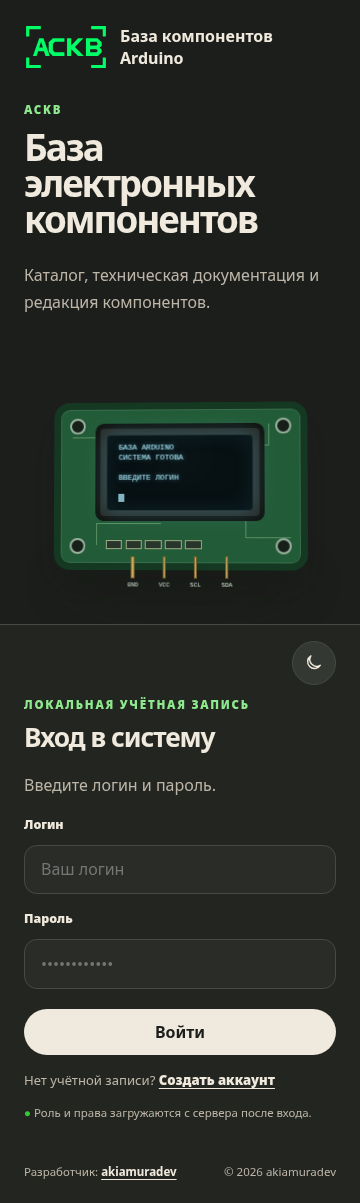
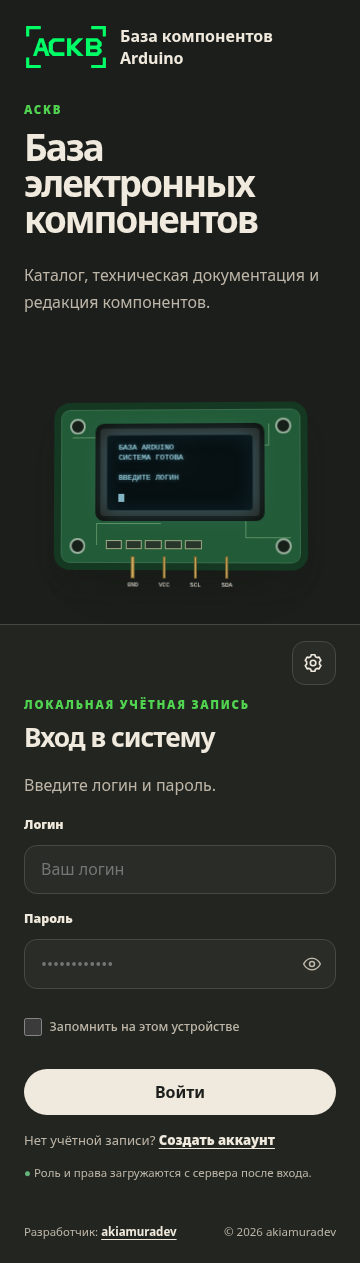
Refresh current capabilities, deployment docs and deterministic screenshots

diff --git a/frontend/e2e/product-ui.spec.ts b/frontend/e2e/product-ui.spec.ts
@@ -562,19 +562,30 @@ test("editor navigation remains usable at 320px and hides administrator tools", 
 
 test("captures approved responsive theme views", async ({ page }) => {
   test.skip(process.env.ACKB_UPDATE_SCREENSHOTS !== "1", "visual artifacts are updated explicitly");
+  await page.emulateMedia({ reducedMotion: "reduce" });
+  const capture = async (path: string) => {
+    // Load off-screen institution logos before a full-page capture, without production data.
+    await page.locator(".app-footer, .login-footer").scrollIntoViewIfNeeded();
+    await page.evaluate(() => document.fonts.ready);
+    for (const image of await page.locator("img").all()) {
+      await expect.poll(() => image.evaluate((element: HTMLImageElement) => element.naturalWidth)).toBeGreaterThan(0);
+    }
+    await page.evaluate(() => { window.scrollTo(0, 0); });
+    await page.screenshot({ fullPage: true, animations: "disabled", path });
+  };
   const items = Array.from({ length: 12 }, (_, index) => ({ ...component, id: String(index), slug: `part-${String(index)}` }));
   await mockCatalog(page, editor, items);
   await page.setViewportSize({ width: 1920, height: 1080 });
   await page.goto("/");
   await selectTheme(page, "Светлое");
   await expect(page.locator("html")).toHaveAttribute("data-theme", "light");
-  await page.screenshot({ fullPage: true, path: "../docs/screenshots/frontend-light-desktop.png" });
+  await capture("../docs/screenshots/frontend-light-desktop.png");
   await selectTheme(page, "Тёмное");
   await expect(page.locator("html")).toHaveAttribute("data-theme", "dark");
   await page.reload();
   await expect(page.locator("html")).toHaveAttribute("data-theme", "dark");
   await expect(page.getByRole("heading", { name: "Каталог компонентов" })).toBeVisible();
-  await page.screenshot({ fullPage: true, path: "../docs/screenshots/frontend-dark-desktop.png" });
+  await capture("../docs/screenshots/frontend-dark-desktop.png");
 
   await page.unrouteAll({ behavior: "wait" });
   await mockLoggedOut(page);
@@ -582,11 +593,11 @@ test("captures approved responsive theme views", async ({ page }) => {
   await page.goto("/login");
   await selectTheme(page, "Светлое");
   await expect(page.locator("html")).toHaveAttribute("data-theme", "light");
-  await page.screenshot({ fullPage: true, path: "../docs/screenshots/frontend-light-mobile.png" });
+  await capture("../docs/screenshots/frontend-light-mobile.png");
   await selectTheme(page, "Тёмное");
   await expect(page.locator("html")).toHaveAttribute("data-theme", "dark");
   await page.reload();
   await expect(page.locator("html")).toHaveAttribute("data-theme", "dark");
   await expect(page.getByRole("heading", { name: "Вход в систему" })).toBeVisible();
-  await page.screenshot({ fullPage: true, path: "../docs/screenshots/frontend-dark-mobile.png" });
+  await capture("../docs/screenshots/frontend-dark-mobile.png");
 });

diff --git a/tests/test_documentation.py b/tests/test_documentation.py
@@ -3,6 +3,7 @@
 from __future__ import annotations
 
 import re
+import tomllib
 
 from scripts.docs_contract import (
     DOCS,
@@ -127,6 +128,42 @@ def test_readme_badges_describe_current_license_stack_and_test_availability() ->
             "Docker Compose",
         ):
             assert f"![{technology}]" in content
+
+
+def test_readmes_share_current_commands_screenshots_and_release_contract() -> None:
+    english = (ROOT / "README.md").read_text(encoding="utf-8")
+    russian = (ROOT / "README.ru.md").read_text(encoding="utf-8")
+    version = tomllib.loads((ROOT / "pyproject.toml").read_text())["project"]["version"]
+    assert "## Current capabilities" in english
+    assert "## Возможности ACKB" in russian
+    assert re.findall(r"```bash\n(.*?)```", english, re.DOTALL) == re.findall(
+        r"```bash\n(.*?)```", russian, re.DOTALL
+    )
+    screenshots = {
+        f"docs/screenshots/frontend-{theme}-{viewport}.png"
+        for theme in ("light", "dark")
+        for viewport in ("desktop", "mobile")
+    }
+    for content in (english, russian):
+        assert f"**{version}**" in content
+        assert "v1.0.0" not in content
+        assert not re.search(r"compose[^\n]*up[^\n]*--build", content)
+        assert set(re.findall(r"docs/screenshots/[^)]+\.png", content)) == screenshots
+        for token in (
+            "scripts/build_images.py",
+            "up --no-build --detach",
+            "ACKB_UPDATE_SCREENSHOTS=1",
+            "edit tokens",
+            "RGB/HEX",
+            "ZIP/XLSX",
+            "disabled/shadow",
+            "Argon2id",
+            "docs/LEGACY_IMPORTER.md",
+            "full commit SHA",
+            "/build-info.json",
+            "production smoke",
+        ):
+            assert token in content
 
 
 def test_media_limits_are_unambiguous() -> None:

diff --git a/tests/test_operations_documentation.py b/tests/test_operations_documentation.py
@@ -1,4 +1,4 @@
-"""Static contracts for the ACKB 1.0.0 operator guide."""
+"""Static contracts for the current ACKB operator guide."""
 
 from __future__ import annotations
 
@@ -53,10 +53,11 @@ def test_operator_commands_match_repository_interfaces() -> None:
         "ackb_restore_incident",
         "ackb-reconcile-jobs",
         "git checkout --detach",
-        "20260721_16",
+        "<verified-pre-upgrade-alembic-revision>",
     )
     for token in required_tokens:
         assert token in guide
+    assert "alembic downgrade 20260721_16" not in guide
     for service in (
         "postgres",
         "redis",

diff --git a/README.md b/README.md
@@ -40,19 +40,38 @@ A clean installation contains categories and approved source definitions, but no
 automatically published cards. Imported material always starts as a draft; it becomes visible to
 students only after review, approval, and explicit publication.
 
-## Highlights in v1.0.0
+## Current capabilities
 
-- responsive Russian-language React interface with light, dark, and system themes;
-- catalogue search, category and difficulty filters, component pages, and multiple-image galleries;
-- server-enforced roles for students, teachers, temporary editors, and administrators;
-- student-only public registration plus administrator-controlled password reset and admin creation;
-- draft, review, approval, publication, hide, archive, and immutable revision history;
-- teacher correction proposals that never overwrite published content directly;
-- versioned Seeed Studio Wiki and KiCad Symbols adapters with preserved provenance and license snapshots; all sources are currently inactive for new imports;
-- exact and fuzzy duplicate detection with administrator-only merge decisions;
-- private MinIO media, validated image/video processing, and durable Redis/Dramatiq jobs;
-- audit events, Argon2id passwords, opaque sessions, CSRF protection, and throttling;
-- reproducible Docker Compose deployment, Alembic migrations, backup, restore, and upgrade checks.
+- A Russian-language, full-width desktop workspace with responsive mobile layout,
+  catalogue search, category/difficulty filters, component details and multiple-image galleries.
+- Controlled draft → review → approval → explicit publication, immutable published snapshots,
+  revision history, hide/archive actions and separate teacher correction proposals.
+- A synchronized card editor with optimistic edit tokens and conflict handling; structured
+  validation diagnostics, field navigation and explicit conversion between compatible
+  specification units. The authenticated filling guide opens in a separate tab without
+  replacing the draft.
+- Server-enforced `student`, `teacher`, temporary `editor` and `administrator` roles;
+  student-only registration, administrator-controlled account/password management, password
+  visibility controls and optional remembered login sessions.
+- Light/dark/system themes, custom RGB/HEX accents and saved browser-local accent presets.
+  Brand colors remain independent of UI accents.
+- A public `/license` page with the complete GNU GPL text and neutral institutional affiliation
+  blocks linking to МПК ЛГПУ and ЛГПУ.
+- A legacy ZIP/XLSX importer with private source uploads, analysis before application,
+  administrator review, explicit plan confirmation and draft-only application. Source rights
+  must be verified before publication; see the [legacy importer guide](docs/LEGACY_IMPORTER.md).
+- Exact/fuzzy duplicate candidates with administrator-only merge decisions. Registered
+  Seeed Studio Wiki/KiCad Symbols adapters preserve provenance and license snapshots, but
+  external sources are **inactive for new imports**. The evidence-first pipeline remains
+  **disabled/shadow**, not an authoritative production import path.
+- Private MinIO media with validated image/video processing; PostgreSQL-backed durable job
+  dispatch, Redis/Dramatiq workers and reconciliation of interrupted work.
+- Audit trail, Argon2id password hashing, opaque server-side sessions, CSRF protection and
+  persistent login throttling; the backend is always the authorization authority.
+- Provenance-aware image builds, Alembic migrations, production preflight and deployment smoke
+  checks, plus backup/restore procedures covering PostgreSQL and private object storage.
+
+These describe the implemented code, not proof of a deployed release. See the release gate below.
 
 ## Screenshots
 
@@ -91,7 +110,7 @@ duplicate merge always requires a separate administrator decision. See
 
 ## Quick start
 
-Requirements: Docker Engine, the Docker Compose plugin, Git, `curl`, and `openssl`. Clone the
+Requirements: Docker Engine, the Docker Compose plugin, Git, Python 3.12+, `curl`, and `openssl`. Clone the
 default branch into a native Linux filesystem:
 
 ```bash
@@ -101,8 +120,9 @@ cd arduino-component-knowledge-base
 bash scripts/linux_bootstrap.sh
 ```
 
-The bootstrap creates an ignored `.env` with random local credentials and mode `0600`, builds the
-stack, and waits for the health checks. It does not print generated secrets. Open
+The bootstrap creates an ignored `.env` with random local credentials and mode `0600`, validates
+Compose, builds images through `python3 scripts/build_images.py`, starts them with
+`docker compose up --no-build --detach`, and waits for health checks. It does not print generated secrets. Open
 <http://localhost:8080>.
 
 Verify the deployment:
@@ -119,12 +139,17 @@ existing release checkout, preserve its `.env` and volumes:
 
 ```bash
 git pull --ff-only origin main
-docker compose up --build -d
+docker compose config --quiet
+python3 scripts/build_images.py
+docker compose up --no-build --detach
 python3 scripts/compose_smoke.py
 ```
 
 Do not replace `.env` while reusing an existing PostgreSQL volume. For production deployment,
 backup, restore, and upgrade procedures, use the [Operations guide](docs/OPERATIONS.md).
+The commands above are for the local stack, not a production upgrade shortcut. The image builder
+requires a clean committed checkout and obtains the version from project metadata and the full
+SHA from Git; old `.env` values cannot override site build metadata.
 
 ## Create the first administrator
 
@@ -147,8 +172,9 @@ there is no self-service recovery or collection of email, phone, 2FA, or recover
 
 1. An editor or administrator creates a manual draft. Registered Seeed/KiCad adapters remain
    available for controlled validation, but their sources are inactive for new import jobs.
-2. If a source is explicitly reactivated under an approved policy, the selected import entry
-   becomes a draft and is never published automatically.
+2. The separate legacy ZIP/XLSX workflow analyzes a private bundle and requires administrator
+   review and typed confirmation before applying its plan. Repository imports require explicit
+   source reactivation under an approved policy. Neither path publishes automatically.
 3. The editor completes the card and resolves duplicate candidates.
 4. The editor submits it for review; an administrator requests changes or approves it.
 5. An administrator explicitly publishes the approved revision.
@@ -192,8 +218,31 @@ npm run test:e2e
 ```
 
 Container checks and the PostgreSQL/MinIO integration environment are documented in
-[Testing](docs/TESTING.md). The `quality` workflow runs the complete mandatory release gate on
-every push and pull request.
+[Testing](docs/TESTING.md). The `quality` workflow runs the mandatory CI checks on
+every push and pull request; it does not deploy or verify production.
+
+Regenerate the four README screenshots from deterministic test-only fixtures (inside `frontend`):
+
+```bash
+ACKB_UPDATE_SCREENSHOTS=1 npm run test:e2e -- --grep "captures approved responsive theme views"
+```
+
+Screenshots document the UI; they do not replace layout assertions or production checks.
+
+## Release and deployment gate
+
+A release is complete only when **all mandatory GitHub CI checks succeed**, an authorized
+deployment after merge to `main` succeeds, and the running production build is verified.
+Check running containers, production smoke tests and site/API metadata against the deployed
+checkout: actual version, full Git SHA and actual build date/time. Frontend `/build-info.json`
+records version/SHA/build time; backend `/health` exposes the application version. A stale or mismatching
+value leaves the release incomplete, even if the application works.
+
+Local tests, CHANGELOG, tags, GitHub Releases or a merged PR are not substitutes for that check.
+Report version, full commit SHA, build date, CI status, production smoke result and confirmation
+that production serves that exact build. If deployment is not authorized, do not deploy and
+explicitly leave the production gate open. See [Contributing](CONTRIBUTING.md) and
+[Operations](docs/OPERATIONS.md) for the complete workflow.
 
 ## Documentation
 

diff --git a/docs/OPERATIONS.md b/docs/OPERATIONS.md
@@ -1,4 +1,4 @@
-# Эксплуатация ACKB 1.0.0
+# Эксплуатация ACKB
 
 Этот документ предназначен для системного администратора ACKB. Он описывает установку,
 обновление, обслуживание и восстановление одной production VM на Ubuntu Server 24.04 LTS.
@@ -89,7 +89,7 @@ history.
 | Сеть | `ACKB_INTERNAL_HOSTNAME`, `ACKB_BIND_ADDRESS` | DNS должен указывать на static IP VM |
 | TLS | `ACKB_EDGE_TLS_CERT_FILE`, `ACKB_EDGE_TLS_KEY_FILE`, `ACKB_MINIO_TLS_CERT_FILE`, `ACKB_MINIO_TLS_KEY_FILE`, `ACKB_CA_BUNDLE_FILE` | Только абсолютные пути; keys имеют mode `0400` или `0600` |
 | Обработка файлов | `ACKB_FFPROBE_TIMEOUT_SECONDS`, `ACKB_FFMPEG_TIMEOUT_SECONDS`, `ACKB_FFMPEG_THREADS`, `ACKB_MEDIA_JOB_MAX_ATTEMPTS`, `ACKB_MEDIA_JOB_LEASE_SECONDS` | Сначала оставить проверенный template baseline |
-| Импорт | `ACKB_IMPORT_JOB_MAX_ATTEMPTS`, `ACKB_IMPORT_LOCK_TTL_SECONDS`, `ACKB_IMPORT_LOCK_WAIT_SECONDS`, `ACKB_IMPORT_PIPELINE_MODE`, `ACKB_IMPORT_PIPELINE_STAGE_TIMEOUT_SECONDS`, `ACKB_IMPORT_PIPELINE_SAFE_RETRY_ATTEMPTS` | Для 1.0.0 authoritative switch не включать; baseline — `disabled` |
+| Импорт | `ACKB_IMPORT_JOB_MAX_ATTEMPTS`, `ACKB_IMPORT_LOCK_TTL_SECONDS`, `ACKB_IMPORT_LOCK_WAIT_SECONDS`, `ACKB_IMPORT_PIPELINE_MODE`, `ACKB_IMPORT_PIPELINE_STAGE_TIMEOUT_SECONDS`, `ACKB_IMPORT_PIPELINE_SAFE_RETRY_ATTEMPTS` | Authoritative switch не включать без отдельных gates; baseline — `disabled` |
 | KiCad shadow index | `ACKB_KICAD_INDEX_ARTIFACT_PATH`, `ACKB_KICAD_INDEX_EXPECTED_REVISION`, `ACKB_KICAD_INDEX_EXPECTED_SHA256` | Нужны только для отдельно принятого shadow mode |
 | Production policy | `ACKB_LOG_LEVEL`, `ACKB_DOCS_ENABLED`, `ACKB_DATABASE_ECHO`, `ACKB_LEGACY_KICAD_CARD_IMPORT_ENABLED`, `ACKB_SESSION_COOKIE_SECURE`, `ACKB_SESSION_TTL_MINUTES` | Не ослаблять значения production template |
 | Remembered login | `ACKB_REMEMBERED_SESSION_TTL_DAYS` | 30 дней по умолчанию, допустимо 1–90; применяется только при отмеченном «Запомнить на этом устройстве» |
@@ -325,8 +325,9 @@ git checkout --detach <approved-new-full-commit-sha>
 git rev-parse HEAD
 ```
 
-5. Обновите только `ACKB_APP_VERSION`, `ACKB_COMMIT_SHA` и `ACKB_BUILD_DATE` в сохранённом
-   `.env.production` для учёта развёртывания; остальные secrets не заменяйте.
+5. Для учёта развёртывания `ACKB_APP_VERSION`, `ACKB_COMMIT_SHA` и `ACKB_BUILD_DATE` в сохранённом
+   `.env.production` берите только из реального checkout и inventory соответствующей сборки,
+   не придумывайте значения и не переносите дату старой сборки. Остальные secrets не заменяйте.
    Эти значения больше не задают версию/SHA/дату на сайте. Wrapper (Python ≥3.11)
    читает версию проекта и Git HEAD из чистого checkout, а frontend фиксирует UTC
    в момент сборки. Без SHA Docker-сборка завершается ошибкой. Выполните preflight.
@@ -423,17 +424,17 @@ $compose ps -a
 $compose logs --since 30m --tail 300 migrate backend worker parser-worker
 ```
 
-2. Если после обновления ещё не было business writes формата 1.0.0 и release notes подтверждают
-   обратимый schema rollback, выполните downgrade кодом новой версии до предыдущего ACKB 0.21.0
-   head:
+2. Если release notes подтверждают отсутствие изменений схемы (как в 1.7.5), downgrade не нужен.
+   При изменении схемы rollback допустим только до записанного pre-upgrade Alembic head,
+   после проверки обратимости каждой миграции и до открытия writers. Не используйте старый
+   фиксированный revision из исторического примера:
 
 ```fish
-$compose run --rm --no-deps migrate alembic downgrade 20260721_16
+$compose run --rm --no-deps migrate alembic downgrade <verified-pre-upgrade-alembic-revision>
 $compose run --rm --no-deps migrate alembic current
 ```
 
-Downgrade ACKB 1.0.0 удаляет новые 1.0.0 tables и поля, включая предложения исправлений,
-editor grant history и новые import/review данные. Не выполняйте его после открытия writers:
+Downgrade может удалить таблицы, поля и данные соответствующих миграций. Не выполняйте его после открытия writers:
 перейдите сразу к восстановлению согласованной pre-upgrade пары. Даже до открытия writers
 downgrade допустим только при наличии проверенного pre-upgrade dump.
 
@@ -444,8 +445,9 @@ git checkout --detach <approved-previous-full-commit-sha>
 git rev-parse HEAD
 ```
 
-4. Верните старые `ACKB_APP_VERSION`, `ACKB_COMMIT_SHA`, `ACKB_BUILD_DATE`, не меняя secrets,
-   выполните preflight, пересоберите и запустите:
+4. Не меняя secrets, сверьте inventory с выбранным checkout, выполните preflight,
+   пересоберите и запустите. Новая сборка старого commit получает новое фактическое время,
+   а не прежний `ACKB_BUILD_DATE`; после запуска проверьте `/build-info.json` и `/health`:
 
 ```fish
 ./scripts/production_preflight.sh .env.production

diff --git a/docs/screenshots/README.md b/docs/screenshots/README.md
@@ -3,3 +3,16 @@
 Скриншоты создаются детерминированным Playwright-сценарием `frontend/e2e/product-ui.spec.ts`
 с test-only API fixtures. Для обновления используется `ACKB_UPDATE_SCREENSHOTS=1`; production
 frontend не содержит mock-данных.
+
+Из каталога `frontend` после установки зависимостей и Chromium:
+
+```bash
+ACKB_UPDATE_SCREENSHOTS=1 npm run test:e2e -- --grep "captures approved responsive theme views"
+```
+
+Desktop — каталог 1920×1080 с full-page footer; mobile — страница входа 360×800.
+Сценарий снимает обе темы, отключает анимации и ждёт загрузки шрифтов и изображений,
+включая lazy-логотипы footer. Метаданные на снимке относятся к использованной сборке,
+а не подтверждают production deployment. Повторная генерация на той же сборке и в том
+же browser/font environment воспроизводима. Новая сборка может изменить видимый Git SHA.
+Layout assertions выполняются отдельными E2E-тестами, а не сравнением этих PNG.

diff --git a/CHANGELOG.md b/CHANGELOG.md
@@ -13,6 +13,8 @@ All notable changes to this project are documented here. Versions follow semanti
   brand and build metadata width, with unchanged chips and mobile stacking.
 - Preserved responsive behavior, keyboard focus, and local width limits for search,
   authentication forms, legal content and the editorial guide.
+- Refreshed both READMEs with current capabilities, provenance-aware setup commands
+  and the mandatory production verification gate; regenerated deterministic UI screenshots.
 
 ### Compatibility
 
